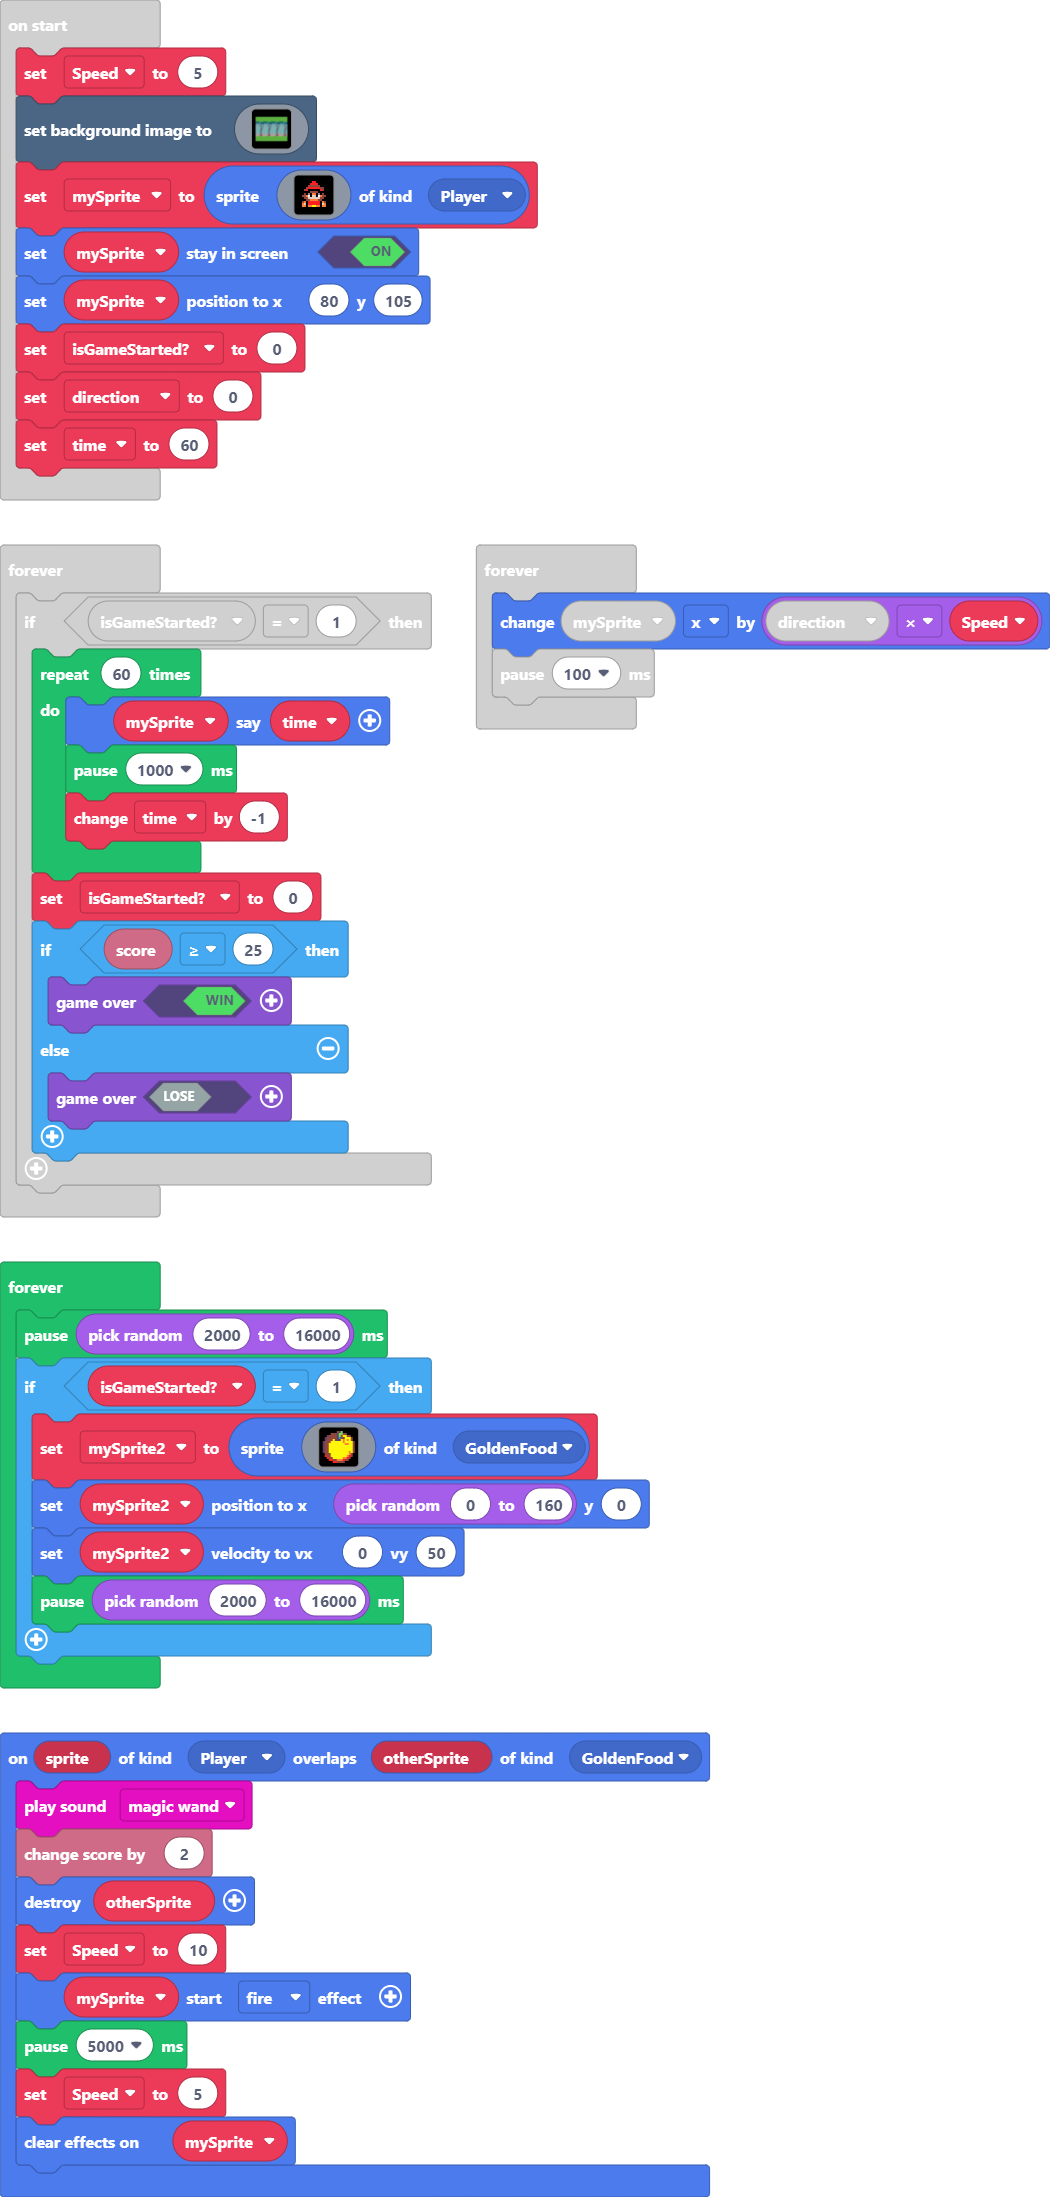
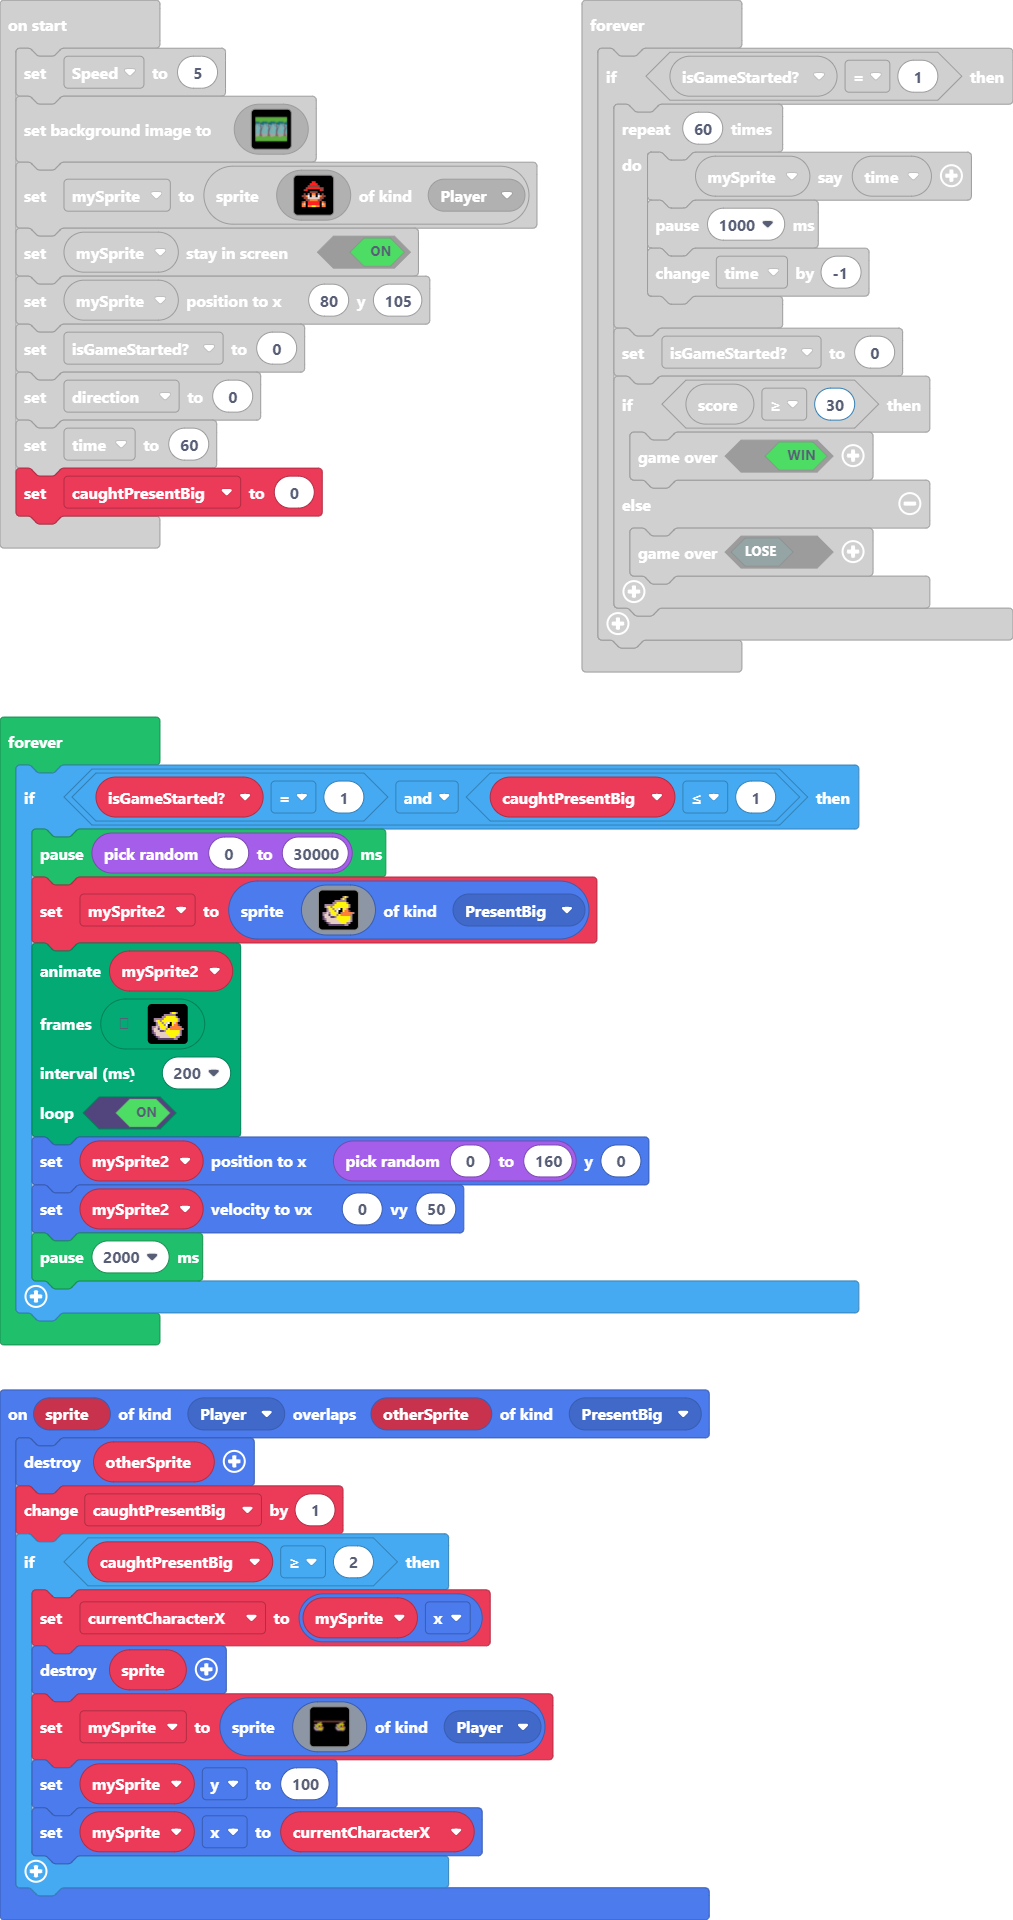
Added ducks

diff --git a/main.ts b/main.ts
@@ -1,5 +1,6 @@
 namespace SpriteKind {
     export const GoldenFood = SpriteKind.create()
+    export const PresentBig = SpriteKind.create()
 }
 controller.left.onEvent(ControllerButtonEvent.Pressed, function () {
     isGameStarted = 1
@@ -14,6 +15,34 @@ controller.left.onEvent(ControllerButtonEvent.Released, function () {
 controller.right.onEvent(ControllerButtonEvent.Pressed, function () {
     isGameStarted = 1
     direction = 1
+})
+sprites.onOverlap(SpriteKind.Player, SpriteKind.PresentBig, function (sprite, otherSprite) {
+    otherSprite.destroy()
+    caughtPresentBig += 1
+    if (caughtPresentBig >= 2) {
+        currentCharacterX = mySprite.x
+        sprite.destroy()
+        mySprite = sprites.create(img`
+            eeeeeeeeeeeeeeeeeeeeeeeeeeeeeeeeeeeeeeeeeeeeeeeeee
+            eeeeeeeeeeeeeeeeeeeeeeeeeeeeeeeeeeeeeeeeeeeeeeeeee
+            .........b55b..............................b55b...
+            ......bbbbbb............................bbbbbb....
+            .....bb55555b..........................bb55555b...
+            .bbbbb5555555b.....................bbbbb5555555b..
+            .bd5b55555555b.....................bd5b55555555b..
+            ..b55b5d1f5d4f......................b55b5d1f5d4f..
+            ..bd55b1ff544c......................bd55b1ff544c..
+            bbdb555dfb4444b...................bbdb555dfb4444b.
+            bddcd55b5444444b..................bddcd55b5444444b
+            cdddccb5555555b...................cdddccb5555555b.
+            cbddddd3555555b...................cbddddd3555555b.
+            .cdddddd55555db....................cdddddd55555db.
+            ..cbddddd555bb......................cbddddd555bb..
+            ...ccccccccbb........................ccccccccbb...
+            `, SpriteKind.Player)
+        mySprite.y = 100
+        mySprite.x = currentCharacterX
+    }
 })
 sprites.onOverlap(SpriteKind.Player, SpriteKind.GoldenFood, function (sprite, otherSprite) {
     music.magicWand.play()
@@ -31,6 +60,8 @@ sprites.onOverlap(SpriteKind.Player, SpriteKind.Food, function (sprite, otherSpr
     otherSprite.destroy()
 })
 let mySprite2: Sprite = null
+let currentCharacterX = 0
+let caughtPresentBig = 0
 let direction = 0
 let isGameStarted = 0
 let mySprite: Sprite = null
@@ -181,6 +212,7 @@ mySprite.setPosition(80, 105)
 isGameStarted = 0
 direction = 0
 let time = 60
+caughtPresentBig = 0
 forever(function () {
     if (isGameStarted == 1) {
         for (let index = 0; index < 60; index++) {
@@ -189,7 +221,7 @@ forever(function () {
             time += -1
         }
         isGameStarted = 0
-        if (info.score() >= 25) {
+        if (info.score() >= 30) {
             game.over(true)
         } else {
             game.over(false)
@@ -220,6 +252,140 @@ forever(function () {
             . . . 2 2 e e 4 4 4 2 e e . . . 
             . . . . . 2 2 e e e e . . . . . 
             `, SpriteKind.Food)
+        mySprite2.setPosition(randint(0, 160), 0)
+        mySprite2.setVelocity(0, 50)
+        pause(2000)
+    }
+})
+forever(function () {
+    if (isGameStarted == 1 && caughtPresentBig <= 1) {
+        pause(randint(0, 30000))
+        mySprite2 = sprites.create(img`
+            . . . . . . . . . . . . . . . . 
+            . . . . . . . . . . b 5 b . . . 
+            . . . . . . . . . b 5 b . . . . 
+            . . . . . . b b b b b b . . . . 
+            . . . . . b b 5 5 5 5 5 b . . . 
+            . b b b b b 5 5 5 5 5 5 5 b . . 
+            . b d 5 b 5 5 5 5 5 5 5 5 b . . 
+            . . b 5 5 b 5 d 1 f 5 d 4 f . . 
+            . . b d 5 5 b 1 f f 5 4 4 c . . 
+            b b d b 5 5 5 d f b 4 4 4 4 4 b 
+            b d d c d 5 5 b 5 4 4 4 4 4 b . 
+            c d d d c c b 5 5 5 5 5 5 5 b . 
+            c b d d d d d 5 5 5 5 5 5 5 b . 
+            . c d d d d d d 5 5 5 5 5 d b . 
+            . . c b d d d d d 5 5 5 b b . . 
+            . . . c c c c c c c c b b . . . 
+            `, SpriteKind.PresentBig)
+        animation.runImageAnimation(
+        mySprite2,
+        [img`
+            . . . . . . . . . . . . . . . . 
+            . . . . . . . . . . . . . . . . 
+            . . . . . . . . . b 5 5 b . . . 
+            . . . . . . b b b b b b . . . . 
+            . . . . . b b 5 5 5 5 5 b . . . 
+            . b b b b b 5 5 5 5 5 5 5 b . . 
+            . b d 5 b 5 5 5 5 5 5 5 5 b . . 
+            . . b 5 5 b 5 d 1 f 5 d 4 f . . 
+            . . b d 5 5 b 1 f f 5 4 4 c . . 
+            b b d b 5 5 5 d f b 4 4 4 4 b . 
+            b d d c d 5 5 b 5 4 4 4 4 4 4 b 
+            c d d d c c b 5 5 5 5 5 5 5 b . 
+            c b d d d d d 5 5 5 5 5 5 5 b . 
+            . c d d d d d d 5 5 5 5 5 d b . 
+            . . c b d d d d d 5 5 5 b b . . 
+            . . . c c c c c c c c b b . . . 
+            `,img`
+            . . . . . . . . . . . . . . . . 
+            . . . . . . . . . . b 5 b . . . 
+            . . . . . . . . . b 5 b . . . . 
+            . . . . . . b b b b b b . . . . 
+            . . . . . b b 5 5 5 5 5 b . . . 
+            . b b b b b 5 5 5 5 5 5 5 b . . 
+            . b d 5 b 5 5 5 5 5 5 5 5 b . . 
+            . . b 5 5 b 5 d 1 f 5 d 4 f . . 
+            . . b d 5 5 b 1 f f 5 4 4 c . . 
+            b b d b 5 5 5 d f b 4 4 4 4 4 b 
+            b d d c d 5 5 b 5 4 4 4 4 4 b . 
+            c d d d c c b 5 5 5 5 5 5 5 b . 
+            c b d d d d d 5 5 5 5 5 5 5 b . 
+            . c d d d d d d 5 5 5 5 5 d b . 
+            . . c b d d d d d 5 5 5 b b . . 
+            . . . c c c c c c c c b b . . . 
+            `,img`
+            . . . . . . . . . . b 5 b . . . 
+            . . . . . . . . . b 5 b . . . . 
+            . . . . . . . . . b c . . . . . 
+            . . . . . . b b b b b b . . . . 
+            . . . . . b b 5 5 5 5 5 b . . . 
+            . . . . b b 5 d 1 f 5 5 d f . . 
+            . . . . b 5 5 1 f f 5 d 4 c . . 
+            . . . . b 5 5 d f b d d 4 4 . . 
+            b d d d b b d 5 5 5 4 4 4 4 4 b 
+            b b d 5 5 5 b 5 5 4 4 4 4 4 b . 
+            b d c 5 5 5 5 d 5 5 5 5 5 b . . 
+            c d d c d 5 5 b 5 5 5 5 5 5 b . 
+            c b d d c c b 5 5 5 5 5 5 5 b . 
+            . c d d d d d d 5 5 5 5 5 d b . 
+            . . c b d d d d d 5 5 5 b b . . 
+            . . . c c c c c c c c b b . . . 
+            `,img`
+            . . . . . . . . . . b 5 b . . . 
+            . . . . . . . . . b 5 b . . . . 
+            . . . . . . b b b b b b . . . . 
+            . . . . . b b 5 5 5 5 5 b . . . 
+            . . . . b b 5 d 1 f 5 d 4 c . . 
+            . . . . b 5 5 1 f f d d 4 4 4 b 
+            . . . . b 5 5 d f b 4 4 4 4 b . 
+            . . . b d 5 5 5 5 4 4 4 4 b . . 
+            . . b d d 5 5 5 5 5 5 5 5 b . . 
+            . b d d d d 5 5 5 5 5 5 5 5 b . 
+            b d d d b b b 5 5 5 5 5 5 5 b . 
+            c d d b 5 5 d c 5 5 5 5 5 5 b . 
+            c b b d 5 d c d 5 5 5 5 5 5 b . 
+            . b 5 5 b c d d 5 5 5 5 5 d b . 
+            b b c c c d d d d 5 5 5 b b . . 
+            . . . c c c c c c c c b b . . . 
+            `,img`
+            . . . . . . . . . . b 5 b . . . 
+            . . . . . . . . . b 5 b . . . . 
+            . . . . . . b b b b b b . . . . 
+            . . . . . b b 5 5 5 5 5 b . . . 
+            . . . . b b 5 d 1 f 5 d 4 c . . 
+            . . . . b 5 5 1 f f d d 4 4 4 b 
+            . . . . b 5 5 d f b 4 4 4 4 b . 
+            . . . b d 5 5 5 5 4 4 4 4 b . . 
+            . b b d d d 5 5 5 5 5 5 5 b . . 
+            b d d d b b b 5 5 5 5 5 5 5 b . 
+            c d d b 5 5 d c 5 5 5 5 5 5 b . 
+            c b b d 5 d c d 5 5 5 5 5 5 b . 
+            c b 5 5 b c d d 5 5 5 5 5 5 b . 
+            b b c c c d d d 5 5 5 5 5 d b . 
+            . . . . c c d d d 5 5 5 b b . . 
+            . . . . . . c c c c c b b . . . 
+            `,img`
+            . . . . . . . . . . b 5 b . . . 
+            . . . . . . . . . b 5 b . . . . 
+            . . . . . . b b b b b b . . . . 
+            . . . . . b b 5 5 5 5 5 b . . . 
+            . . . . b b 5 d 1 f 5 5 d f . . 
+            . . . . b 5 5 1 f f 5 d 4 c . . 
+            . . . . b 5 5 d f b d d 4 4 . . 
+            . b b b d 5 5 5 5 5 4 4 4 4 4 b 
+            b d d d b b d 5 5 4 4 4 4 4 b . 
+            b b d 5 5 5 b 5 5 5 5 5 5 b . . 
+            c d c 5 5 5 5 d 5 5 5 5 5 5 b . 
+            c b d c d 5 5 b 5 5 5 5 5 5 b . 
+            . c d d c c b d 5 5 5 5 5 d b . 
+            . . c b d d d d d 5 5 5 b b . . 
+            . . . c c c c c c c c b b . . . 
+            . . . . . . . . . . . . . . . . 
+            `],
+        200,
+        true
+        )
         mySprite2.setPosition(randint(0, 160), 0)
         mySprite2.setVelocity(0, 50)
         pause(2000)
